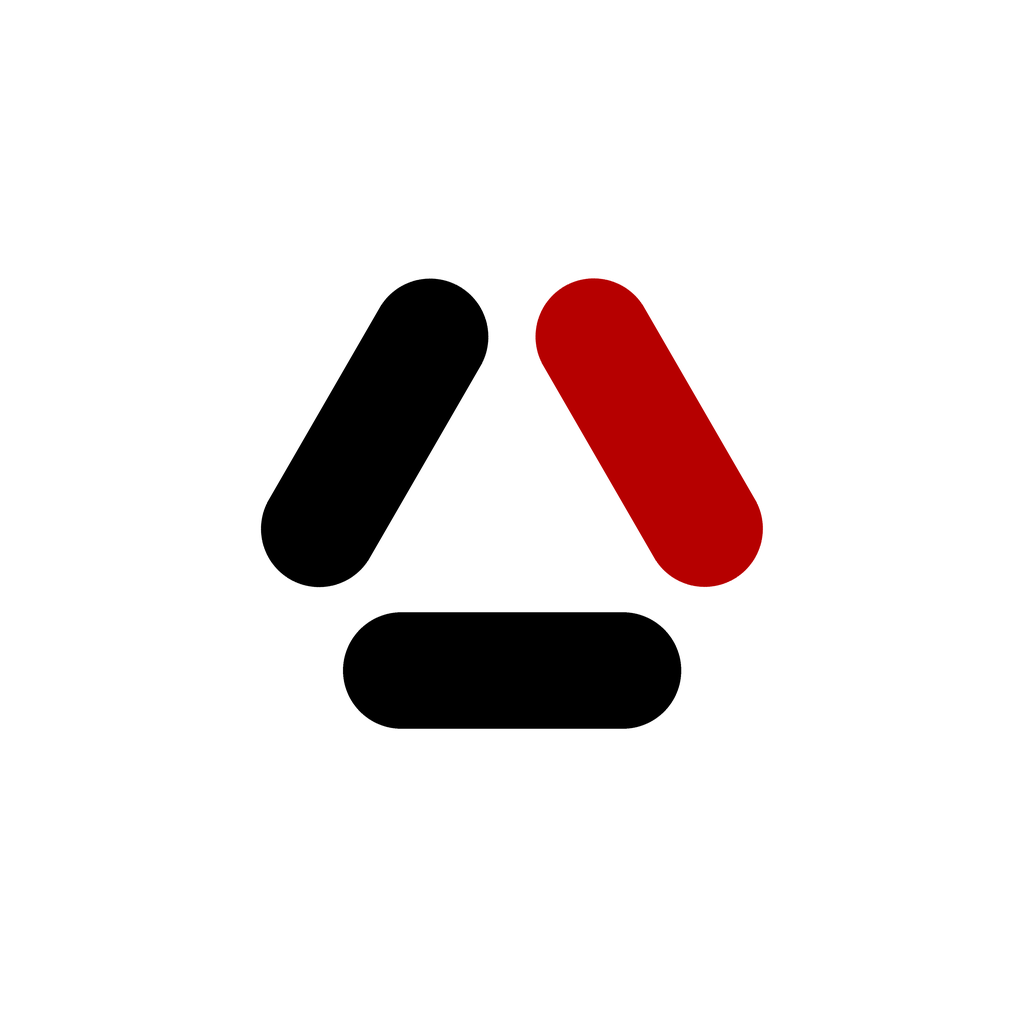
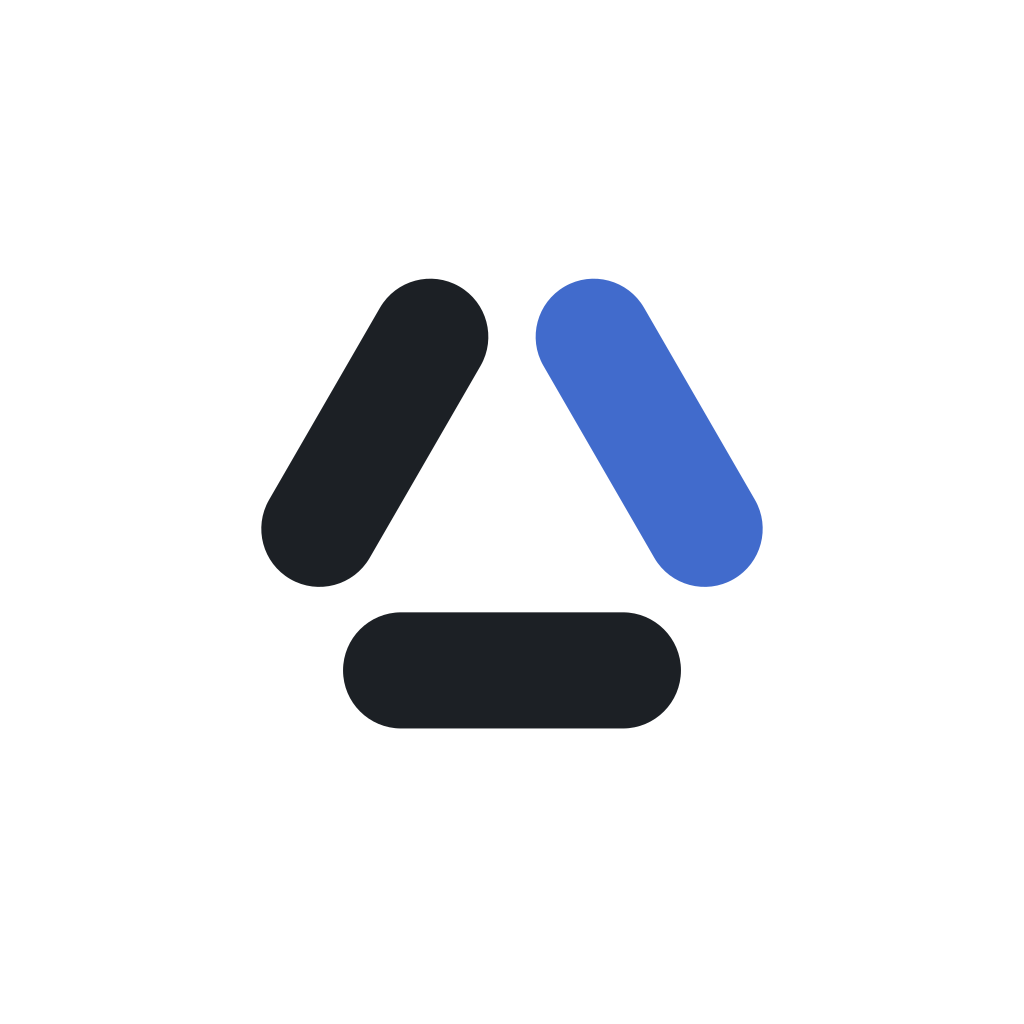
Update branding

Changed region(s): [[0.25, 0.25, 0.75, 0.5938], [0.3125, 0.5938, 0.6875, 0.7188]]

diff --git a/assets/README.md b/assets/README.md
@@ -1,0 +1,83 @@
+# Brand assets
+
+Nothing in this directory is hand-drawn or hand-edited. Every file is the same
+mark, palette and typesetting as <https://bridgingaiandsociety.org>, baked out
+of the website repo so the org profile and the site can't drift apart — which
+is exactly what happened once already, when the site moved off its old crimson
+and these files stayed behind.
+
+**Source of truth** is the website repo
+([`bridgingaiandsociety.github.io`](https://github.com/bridgingaiandsociety/bridgingaiandsociety.github.io)):
+
+- `_sass/_bas-brand.scss` — the accent. Lapis blue, `#416bcc` on light grounds
+  and `#7a98dc` on dark; the ink is `#1c2025`. Two lightnesses because no
+  single hex clears 4.5:1 on both grounds. That partial's header comment
+  carries the full rationale, including the colour-vision numbers.
+- `tools/build-brand-assets.py` — the geometry, and the outlining of the text.
+  Baked text is drawn from vendored Roboto outlines rather than set in a
+  `font-family`, so a file is the same drawing wherever it is opened.
+
+If the accent ever moves again: change it on the site, rerun
+`tools/build-brand-assets.py` there, then redo the copies and the two commands
+below. Don't recolour these files in place.
+
+## Where each file comes from
+
+Straight copies of a website file:
+
+| File here | Website file |
+| --- | --- |
+| `banner.jpg` | `assets/img/banner.jpg` |
+| `og-card.png` | `assets/img/og-card.png` |
+| `logo.png` | `assets/favicon/web-app-icon-512x512.png` |
+| `logo-lockup.svg` | `assets/img/bas-logo.svg` |
+| `logo-lockup-on-dark.svg` | `assets/img/bas-logo-on-dark.svg` |
+| `headshot-christoph.jpg`, `headshot-knut.jpg` | `assets/img/…` (same files) |
+
+Baked from the website's script, for sizes the site itself has no use for —
+run from a checkout of the website repo, with
+`python3 -m pip install -r tools/requirements.txt` and `brew install librsvg`:
+
+```python
+import importlib.util
+spec = importlib.util.spec_from_file_location("bas", "tools/build-brand-assets.py")
+bas = importlib.util.module_from_spec(spec); spec.loader.exec_module(bas)
+
+# avatar.png — the org's GitHub avatar. Full-bleed tile, no corner radius:
+# GitHub applies its own circular mask. The mark sits at the touch-icon scale
+# so that mask can't clip it.
+bas.render(bas.mark_svg(1024, tile="square", scale=0.66), "avatar.png")
+
+# logo.svg — the mark on its rounded tile, vector. The favicon drawing at a
+# size that wants the display cut rather than the small one.
+open("logo.svg", "w").write(bas.mark_svg(512) + "\n")
+
+# rule.svg / rule-on-dark.svg — the accent rule from under the wordmark on the
+# social card (og_svg()); same geometry, one cut per ground.
+for name, accent in (("rule.svg", bas.ACCENT), ("rule-on-dark.svg", bas.DARK_ACCENT)):
+    open(name, "w").write(
+        '<svg xmlns="http://www.w3.org/2000/svg" width="72" height="7" '
+        f'viewBox="0 0 72 7"><rect width="72" height="7" rx="3.5" fill="{accent}"/></svg>\n')
+```
+
+## Two cuts, and why the README uses `<picture>`
+
+A baked file can't follow a palette, so anything whose ink or accent has to
+change with the ground ships twice — `logo-lockup.svg` /
+`logo-lockup-on-dark.svg`, `rule.svg` / `rule-on-dark.svg`. `profile/README.md`
+picks between them with
+
+```html
+<picture>
+  <source media="(prefers-color-scheme: dark)" srcset="…-on-dark.svg">
+  <img src="….svg" alt="…">
+</picture>
+```
+
+so the profile reads correctly in both GitHub themes, the way the site does in
+both skins.
+
+`avatar.png`, `logo.png`, `logo.svg` and `og-card.png` need no dark cut: they
+carry their own opaque light ground, and so read as framed pictures on either
+theme. `banner.jpg` likewise. That ground is deliberate rather than
+transparent — dark ink on a transparent tile vanishes into dark chrome.

diff --git a/profile/README.md b/profile/README.md
@@ -3,12 +3,17 @@
 </p>
 
 <h1 align="center">
-  <img src="https://raw.githubusercontent.com/BridgingAISocietySummerSchools/.github/main/assets/logo.svg" alt="" width="48" align="center">
-  &nbsp;Bridging AI &amp; Society
+  <picture>
+    <source media="(prefers-color-scheme: dark)" srcset="https://raw.githubusercontent.com/BridgingAISocietySummerSchools/.github/main/assets/logo-lockup-on-dark.svg">
+    <img src="https://raw.githubusercontent.com/BridgingAISocietySummerSchools/.github/main/assets/logo-lockup.svg" alt="Bridging AI &amp; Society" width="360">
+  </picture>
 </h1>
 
 <p align="center">
-  <img src="https://raw.githubusercontent.com/BridgingAISocietySummerSchools/.github/main/assets/rule.svg" alt="" width="72" height="7">
+  <picture>
+    <source media="(prefers-color-scheme: dark)" srcset="https://raw.githubusercontent.com/BridgingAISocietySummerSchools/.github/main/assets/rule-on-dark.svg">
+    <img src="https://raw.githubusercontent.com/BridgingAISocietySummerSchools/.github/main/assets/rule.svg" alt="" width="72" height="7">
+  </picture>
 </p>
 
 <p align="center">
